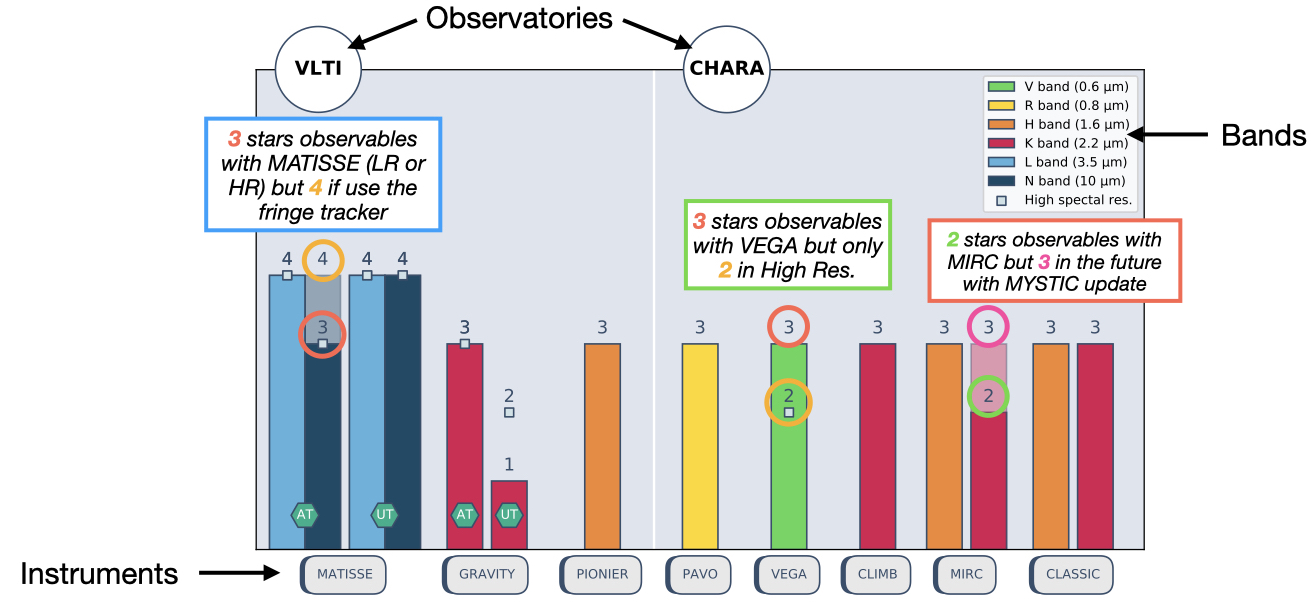
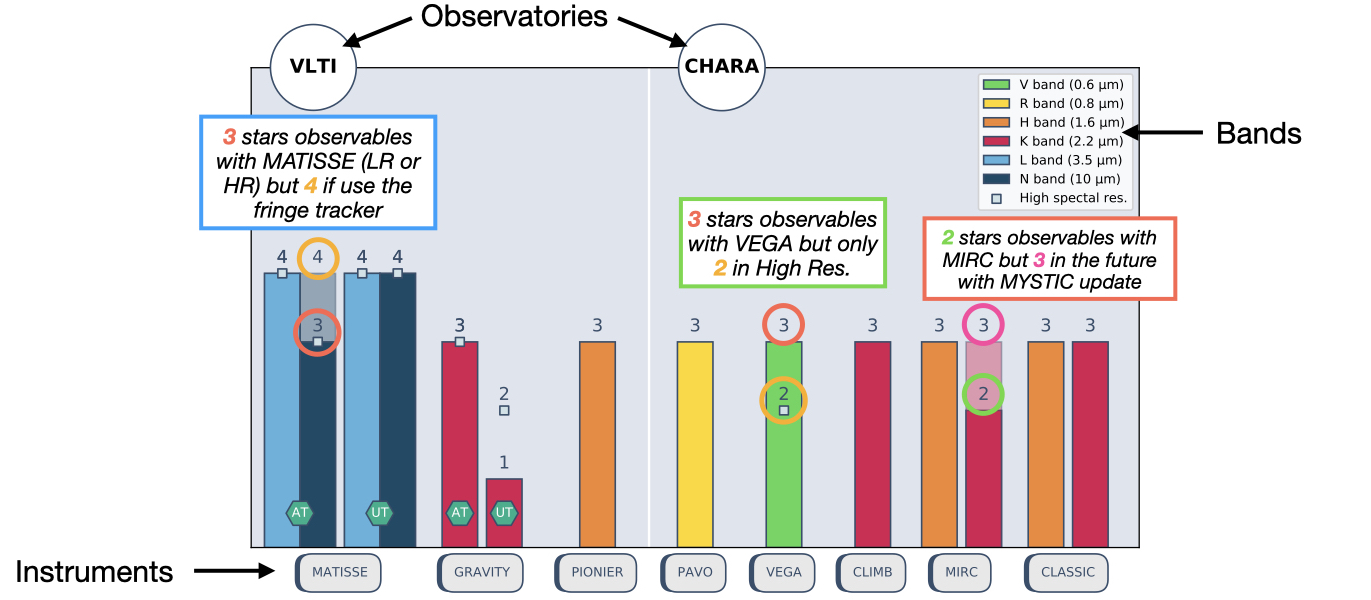
Centering figure and adjust size.

diff --git a/README.md b/README.md
@@ -37,7 +37,7 @@ The example also presents the survey capabilities of the module.
 
 For instance, if you use `previs.search` to fetch data about the star Altair, you can display the resulting observability with the VLTI instruments with `previs.plot_VLTI`:
 
-<img src="doc/figure_1.png" width="50%">
+<img src="doc/figure_1.png" width="50%" style="display: block;margin-left: auto;margin-right: auto; ">
 
 Such a graph represents multiple informations:
 
@@ -55,7 +55,7 @@ Such a graph represents multiple informations:
 
 Now, if you use `previs.survey` on a list of 5 stars for instance, you can display the histogram of the result using `previs.plot_histo_survey`:
 
-<img src="doc/figure_2.jpeg" width="100%">
+<img src="doc/figure_2.jpeg" width="95%">
 
 In this case, you can see that the stars are not observable with all instruments and depend of the considered mode. For instance, 3 stars are observables with MATISSE in low spectral resolution with the AT in N band (dark blue bar). The grey squares indicate the number of stars observable in high spectral resolution:
 
